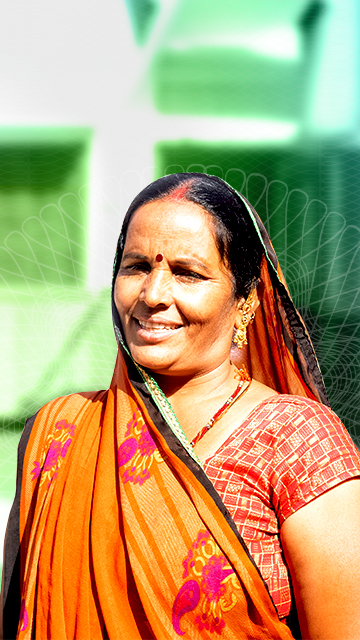
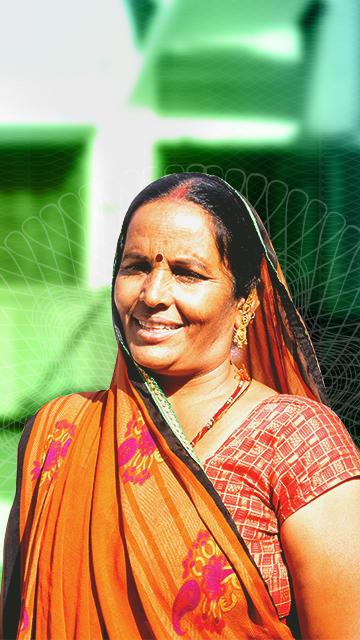
svatantra images

diff --git a/pages/we-are-svatantra/about-us.js b/pages/we-are-svatantra/about-us.js
@@ -34,7 +34,7 @@ import arrow_btn from "../../public/whiteArrow.svg";
 import arrow from "../../public/arrow.svg";
 import RecognisedImg1 from "../../public/img/about/recognisedImg1.jpg";
 import DesktopBanner from "../../public/img/finalBanners/about-us-banner_final.jpg";
-import MobileBanner from "../../public/img/mobileBanners/about mobile 360x640.jpg";
+import MobileBanner from "../../public/img/newImg/aboutMobileBanner.jpg";
 import dummyLogo from "../../public/nationalLogo.png";
 // DATA //
 import { getAwards } from "@/services/awardsService";

diff --git a/pages/our-products/individual-loans.js b/pages/our-products/individual-loans.js
@@ -25,7 +25,7 @@ import styles from "@/styles/pages/MsmeLoans.module.scss";
 
 // IMAGES //
 import banner_desktop from "../../public/img/newImg/ilNew.jpg";
-import mobile_banner from "../../public/img/newImg/ilMobile.jpg";
+import mobile_banner from "../../public/img/newImg/newMsmeImg.jpg";
 import pdf_icon from "../../public/img/pdf_icon.svg";
 
 import identification from "../../public/img/our-products/microfinance/identification.svg";
